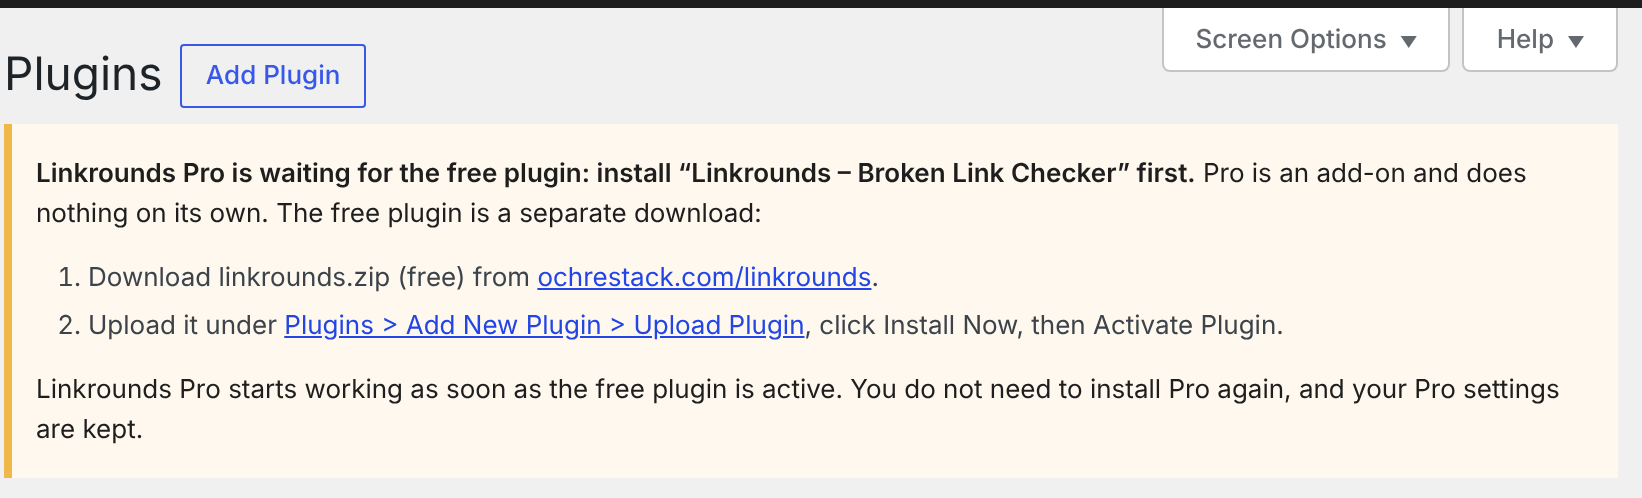
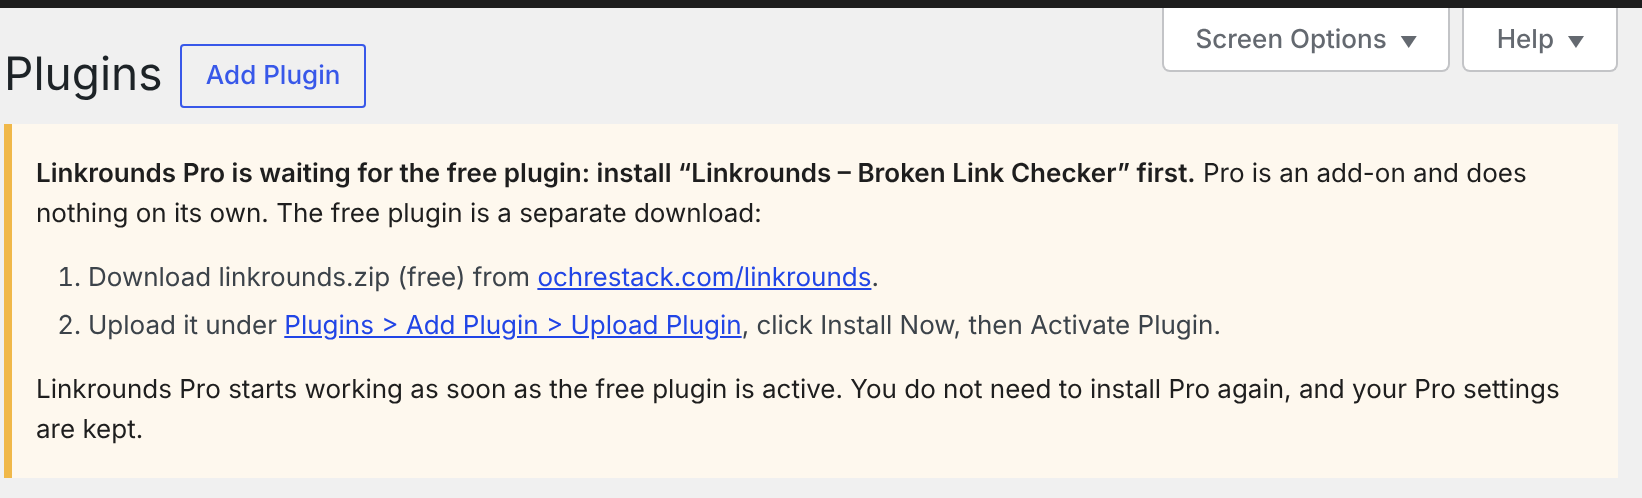
Linkrounds pages: Add Plugin label, pro-first pictures, zip

Changed region(s): [[0.2795, 0.6325, 0.7765, 0.6928]]

diff --git a/linkrounds/quick-start.html b/linkrounds/quick-start.html
@@ -45,7 +45,7 @@
   <h2 id="install">Install (WordPress 6.5 or newer, PHP 7.4 or newer)</h2>
   <ol>
     <li>Download <a href="download/linkrounds.zip"><code>linkrounds.zip</code></a>. Do not unzip it.</li>
-    <li>In WordPress, open <strong>Plugins &gt; Add New Plugin</strong>, click <strong>Upload Plugin</strong>, choose the zip, then <strong>Install Now</strong> and <strong>Activate</strong>.</li>
+    <li>In WordPress, open <strong>Plugins &gt; Add New Plugin</strong> (the menu item and the button are called Add Plugin in WordPress 7.1), click <strong>Upload Plugin</strong>, choose the zip, then <strong>Install Now</strong> and <strong>Activate</strong>.</li>
     <li>After the first activation a green notice says "Linkrounds is under Tools &gt; Linkrounds. Click Scan now." Click <strong>Open Linkrounds</strong> in it, or open <strong>Tools &gt; Linkrounds</strong> yourself. The notice is shown once.</li>
   </ol>
   <p>An administrator installs it; Editors can then scan, fix links and, with Pro, export the CSV. There is nothing to sign up for: no account, no key and no link limit.</p>
@@ -93,7 +93,7 @@
     <li>Click <strong>Send a test email</strong>. Until you click Save schedule, the line beside "Next scheduled scan" says "Not saved yet: click Save schedule.". The message at the top says straight away whether WordPress could send it, and if not, WordPress's own reason (for example "Could not instantiate mail function."). If WordPress sent it but it does not arrive, look in spam, then ask your host about outgoing mail.</li>
     <li>On the Results tab, <strong>Export CSV</strong>, beside the Filter button, downloads the rows of the current filter, all pages. Menu links are listed as "Menu: <em>name</em>", with the menu editor as the edit link.</li>
   </ol>
-  <figure><picture><source media="(max-width: 600px)" srcset="img/pro-first-phone.png" width="286" height="322"><img class="shot" src="img/pro-first.png" alt="The Plugins screen right after Linkrounds Pro was activated on a site without the free plugin: a yellow notice 'Linkrounds Pro is waiting for the free plugin: install “Linkrounds – Broken Link Checker” first. Pro is an add-on and does nothing on its own. The free plugin is a separate download: 1. Download linkrounds.zip (free) from ochrestack.com/linkrounds. 2. Upload it under Plugins &gt; Add New Plugin &gt; Upload Plugin, click Install Now, then Activate Plugin. Linkrounds Pro starts working as soon as the free plugin is active. You do not need to install Pro again, and your Pro settings are kept.'" loading="lazy" width="657" height="199"></picture><figcaption>Installed Pro first? It activates, waits, and says where to get the free plugin: one message, and no button that leads to the screen you are on.</figcaption></figure>
+  <figure><picture><source media="(max-width: 600px)" srcset="img/pro-first-phone.png" width="286" height="322"><img class="shot" src="img/pro-first.png" alt="The Plugins screen right after Linkrounds Pro was activated on a site without the free plugin: a yellow notice 'Linkrounds Pro is waiting for the free plugin: install “Linkrounds – Broken Link Checker” first. Pro is an add-on and does nothing on its own. The free plugin is a separate download: 1. Download linkrounds.zip (free) from ochrestack.com/linkrounds. 2. Upload it under Plugins &gt; Add Plugin &gt; Upload Plugin, click Install Now, then Activate Plugin. Linkrounds Pro starts working as soon as the free plugin is active. You do not need to install Pro again, and your Pro settings are kept.'" loading="lazy" width="657" height="199"></picture><figcaption>Installed Pro first? It activates, waits, and says where to get the free plugin: one message, and no button that leads to the screen you are on.</figcaption></figure>
   <p>The email report is sent after each scheduled scan, once the links that failed have had their second check, through your site's own mail setup. It lists each address that broke since the last report once, with why it failed and every page it is on ("Used in 3 places:"), and ends with a link to the Broken view. Its subject counts addresses, and places when there are more: "[Your site] Linkrounds: 10 addresses broke since the last report (used in 24 places)". The first report lists everything that is broken at that time. Many hosts need an SMTP plugin before WordPress can send mail; the test email tells you. If your site's mail setup ever refuses a report, the Schedule &amp; email tab shows when and WordPress's reason, a line above the results points to it, and the links it would have listed go into the next report.</p>
   <figure><picture><source media="(max-width: 600px)" srcset="img/pro-report-failed-phone.png" width="300" height="924"><img class="shot" src="img/pro-report-failed.png" alt="The Schedule &amp; email tab on a site that cannot send mail: Scheduled full scan Daily at 18:00, 'Next scheduled scan: November 18, 2026 6:00 pm', the address studio@lowpolylane.test, 'No report sent yet.', and a red box: 'The last report could not be sent (November 17, 2026 6:01 pm). Your site’s mail setup refused it. WordPress said: “Could not instantiate mail function.” No email went out; the links it would have listed will be in the next report. Many hosts need an SMTP plugin before WordPress can send mail. Fix that, then use Send a test email below.' Below it, 'Can this site send email?' and the Send a test email button" loading="lazy" width="668" height="686"></picture><figcaption>The demo blog with its mail switched off: the report step was run by hand, the site's mail setup refused it, and the tab says why.</figcaption></figure>
 

diff --git a/linkrounds/index.html b/linkrounds/index.html
@@ -103,7 +103,7 @@
   <div class="buy">
     <p class="price"><strong>Free plugin:</strong> <a href="download/linkrounds.zip">download linkrounds.zip</a> (77 KB, version 1.2.5)</p>
     <p class="price"><strong>Linkrounds Pro:</strong> $19 once, up to 3 sites <a class="button" id="buy" href="https://buy.polar.sh/polar_cl_T6fWxQH1NxBXcEuJZ8mxIgwEQwscVCDttBhdA2tsTf8">Buy for $19</a></p>
-    <p class="fine">Pro adds scheduled scans, an email of what broke and CSV to the free plugin, which stays free. Upload either zip under Plugins &gt; Add New Plugin; if you install Pro first, it waits and shows you where to get the free one. Polar checkout · download after payment · no renewal · no licence check · <a href="../terms.html">14-day refund</a> · <a href="#details">details</a>. More than 3 sites: $79 once, by email only for now (<a href="mailto:support@ochrestack.com">support@ochrestack.com</a>).</p>
+    <p class="fine">Pro adds scheduled scans, an email of what broke and CSV to the free plugin, which stays free. Upload either zip under Plugins &gt; Add New Plugin (Add Plugin in WordPress 7.1); if you install Pro first, it waits and shows you where to get the free one. Polar checkout · download after payment · no renewal · no licence check · <a href="../terms.html">14-day refund</a> · <a href="#details">details</a>. More than 3 sites: $79 once, by email only for now (<a href="mailto:support@ochrestack.com">support@ochrestack.com</a>).</p>
   </div>
   </div>
 
@@ -233,7 +233,7 @@ You get this email because your address is set under Tools &gt; Linkrounds &gt; 
   <h2 id="install">Install</h2>
   <ol>
     <li>Download <a href="download/linkrounds.zip">linkrounds.zip</a>. Do not unzip it.</li>
-    <li>In WordPress, open <strong>Plugins &gt; Add New Plugin &gt; Upload Plugin</strong>, choose the zip, <strong>Install Now</strong>, <strong>Activate</strong>.</li>
+    <li>In WordPress, open <strong>Plugins &gt; Add New Plugin &gt; Upload Plugin</strong> (the menu item is called Add Plugin in WordPress 7.1), choose the zip, <strong>Install Now</strong>, <strong>Activate</strong>.</li>
     <li>A green notice says where Linkrounds is. Click <strong>Open Linkrounds</strong> in it (or open <strong>Tools &gt; Linkrounds</strong>), then click <strong>Scan now</strong>.</li>
     <li>For Pro, upload <code>linkrounds-pro.zip</code> the same way, then open <strong>Tools &gt; Linkrounds &gt; Schedule &amp; email</strong>.</li>
   </ol>
